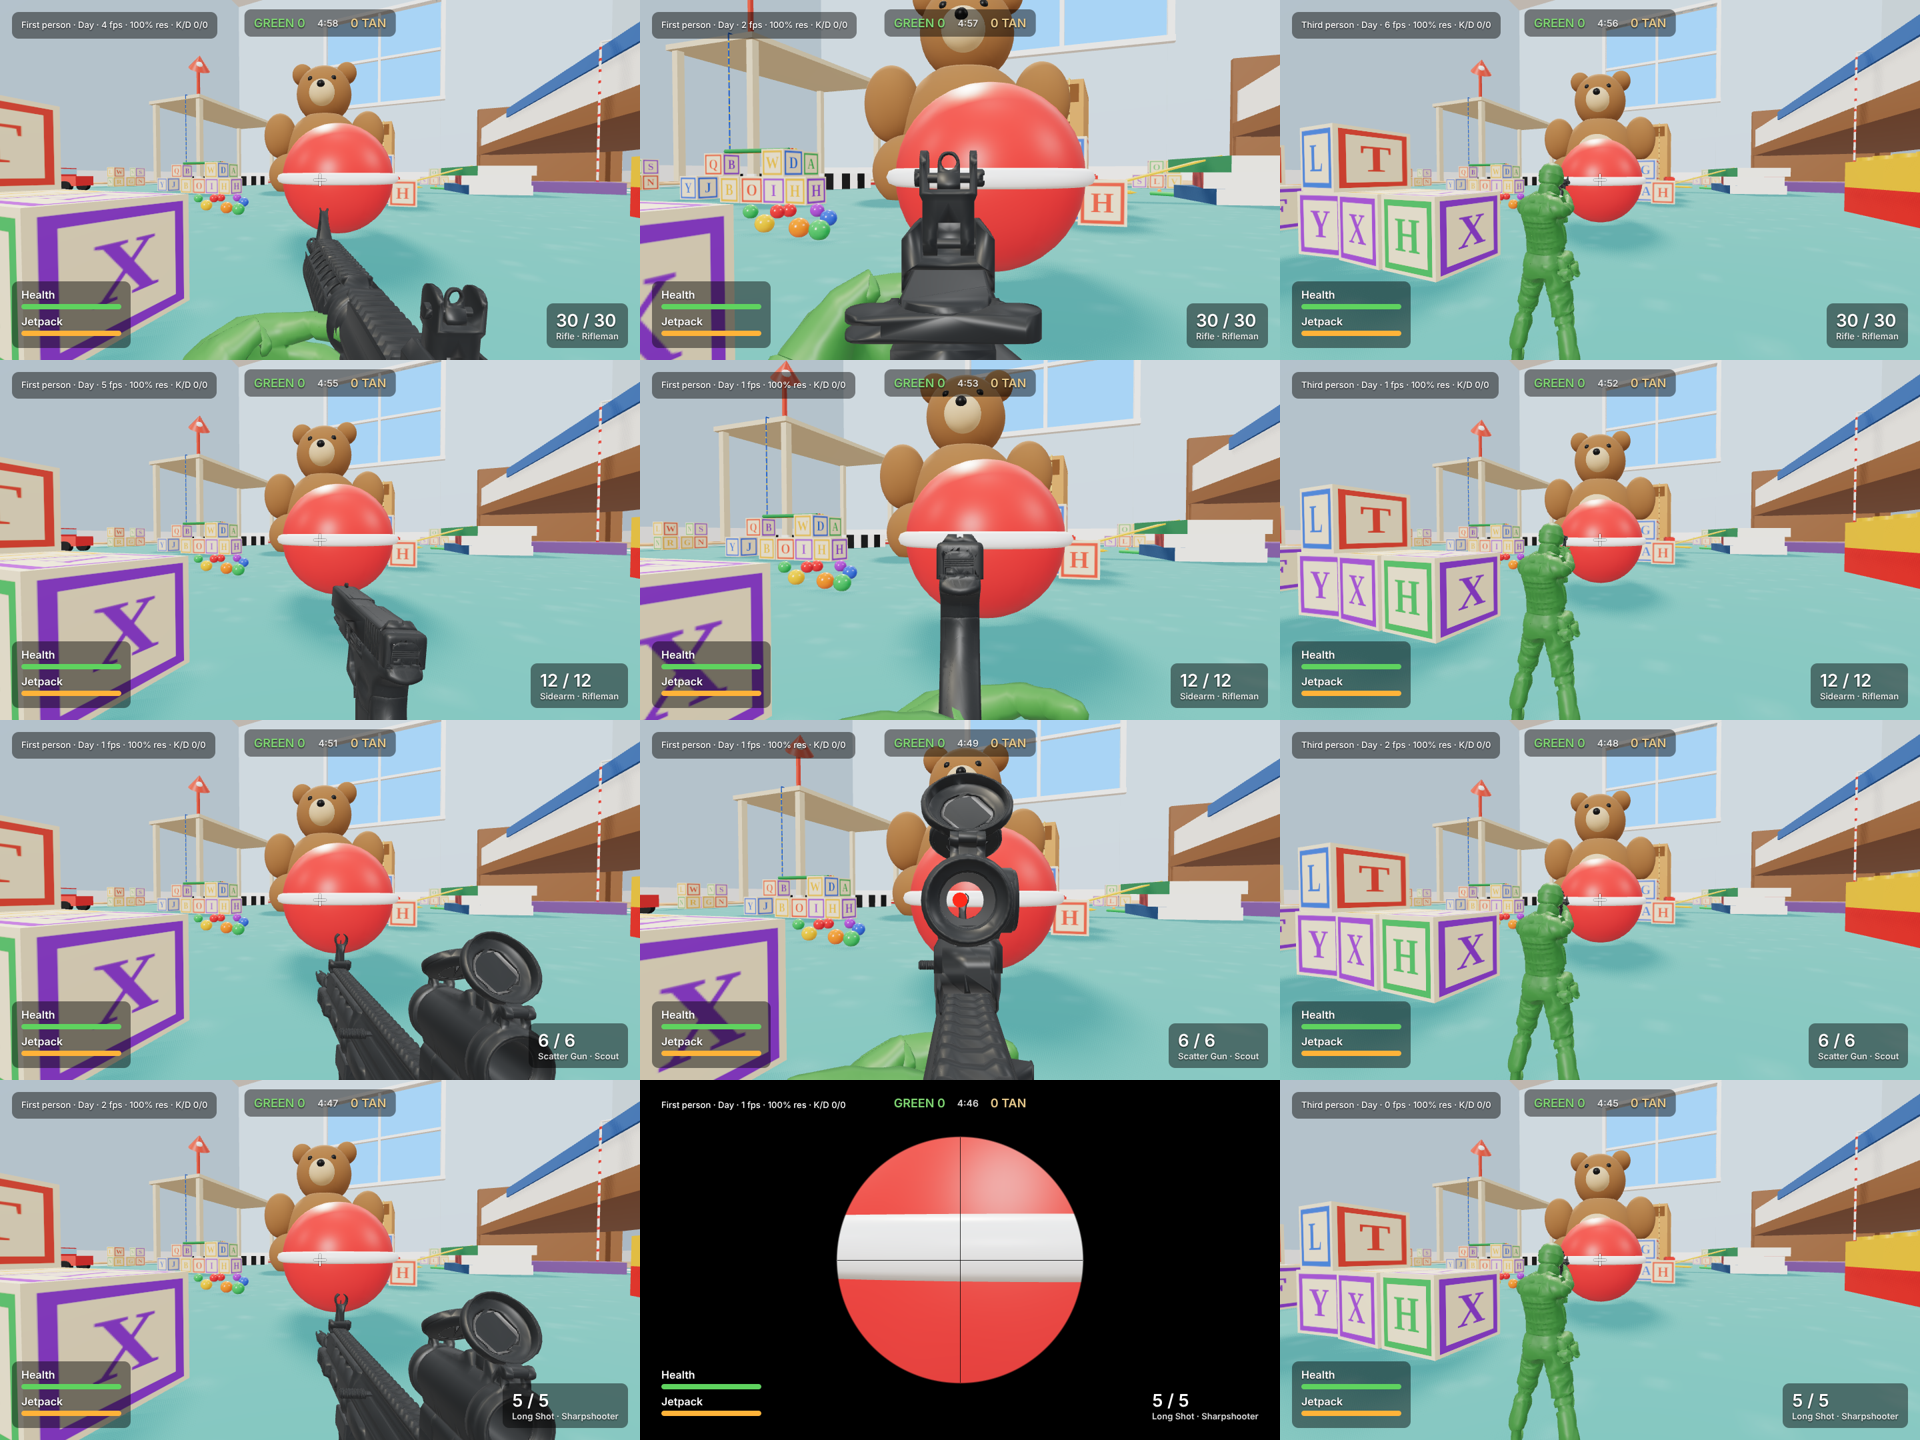
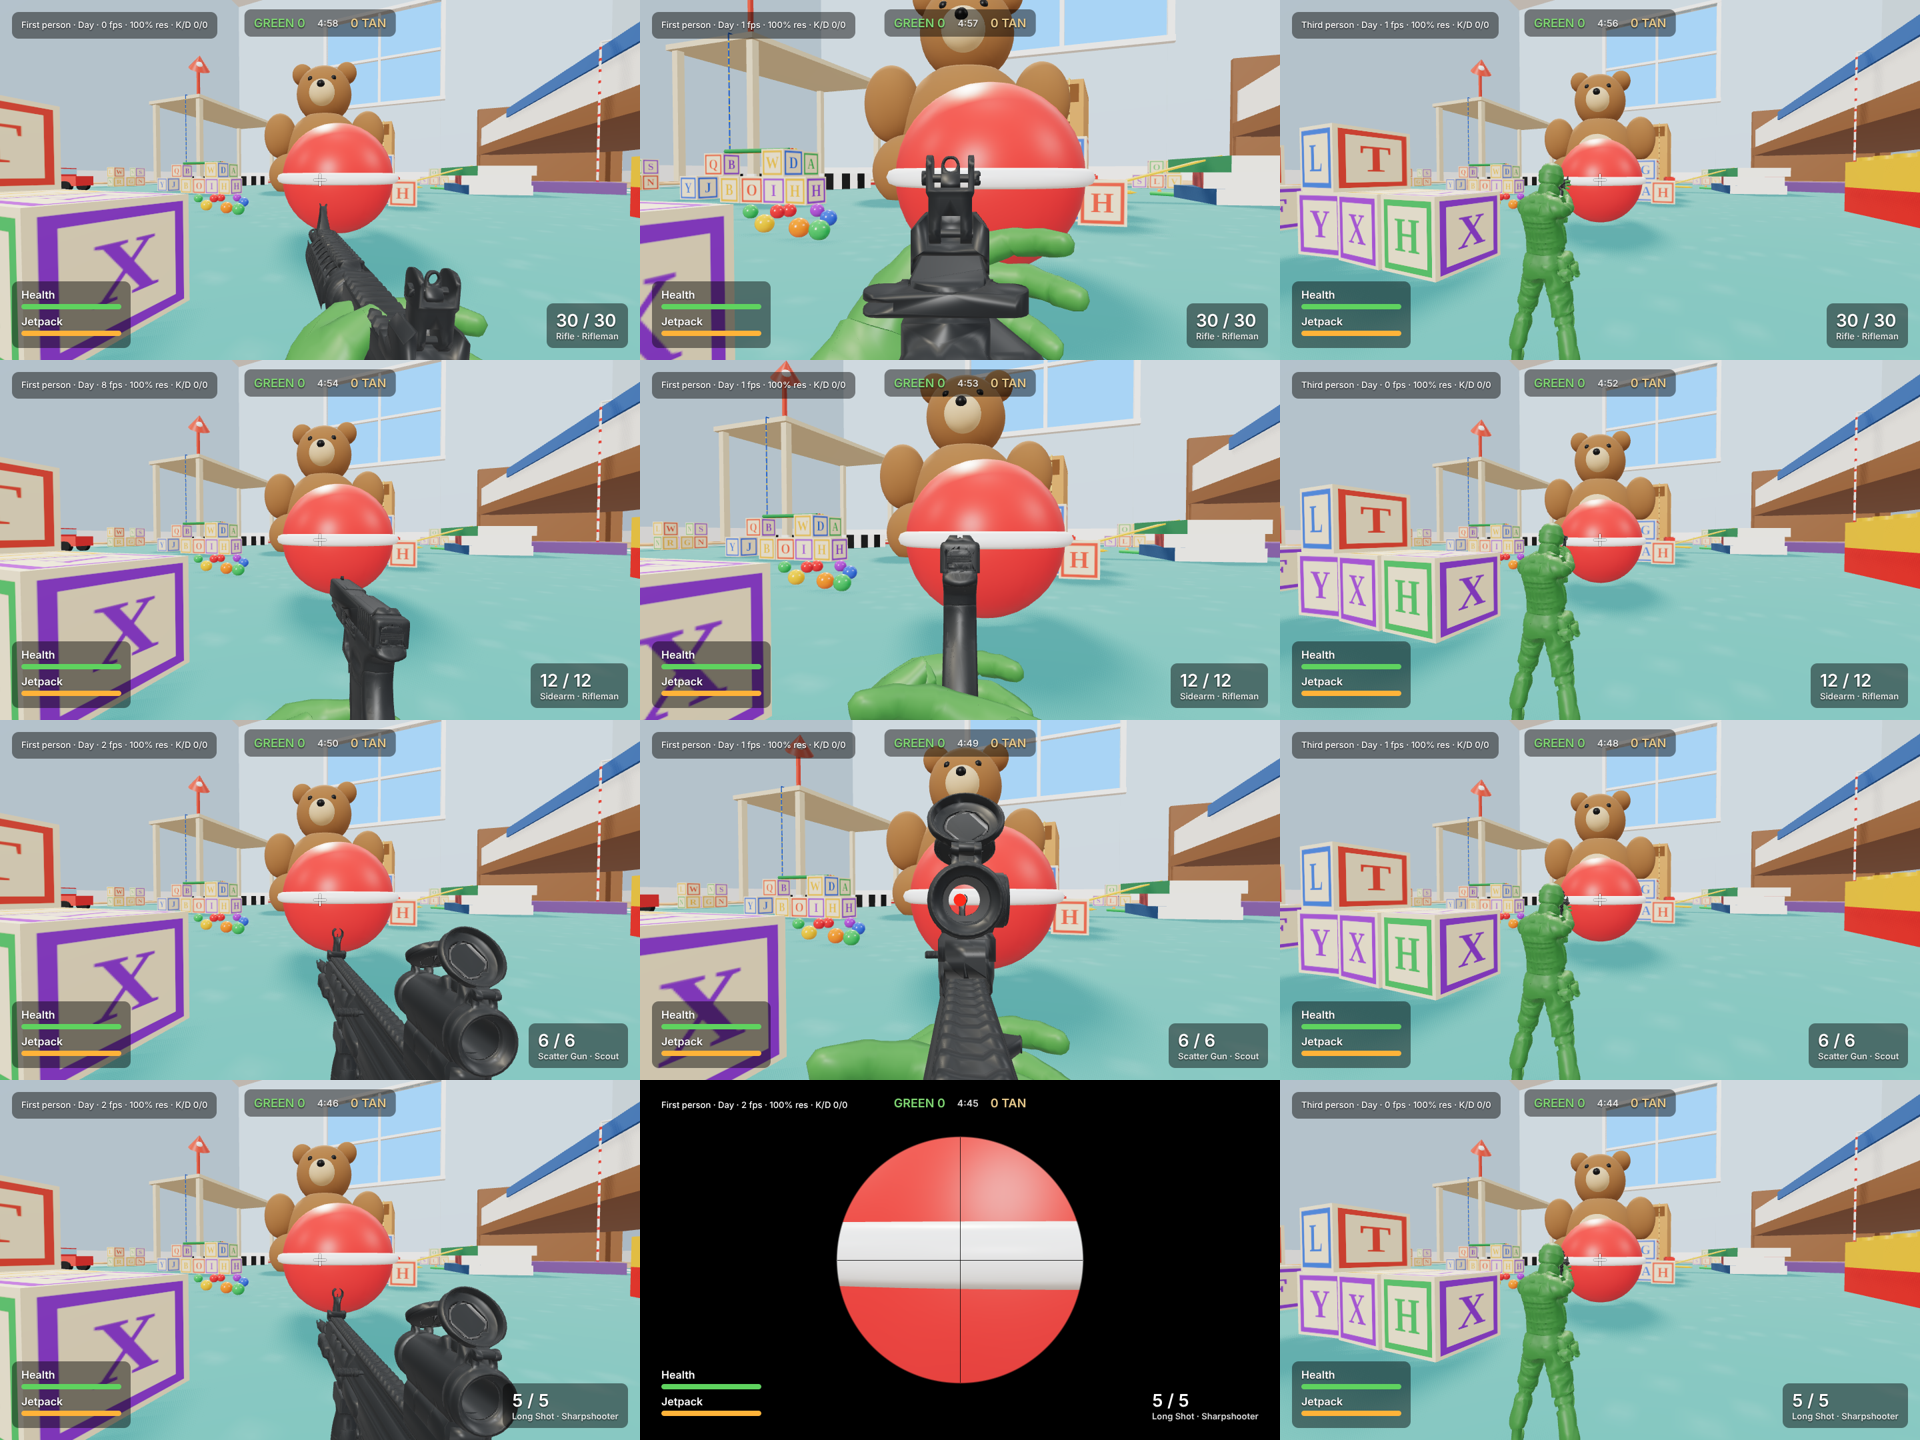
Toy Soldiers: keep both hands on the gun in first person
The soldier's arms are short, so with the gun held low and right the
left hand could not reach the fore grip and hung short of the gun, out
of view. The left hand now slides back along the gun to the furthest
point it can reach. The first-person view is slightly wider so both
hands stay in frame at the hip.

Claude-Session: https://claude.ai/code/session_0152o8Qf7nJissMg9Znhw23j

diff --git a/toy-soldiers/src/entities/RiggedSoldier.js b/toy-soldiers/src/entities/RiggedSoldier.js
@@ -407,16 +407,25 @@ export function animateSoldier(model, phase, amount, pace = 1, pose = {}) {
   for (const s of [1, -1]) {
     const arm = s < 0 ? B.armL : B.armR, fore = arm + 1, hand = arm + 2, fingers = arm + 3;
     place(model, arm);
-    const grip = _a.copy(s > 0 ? h.grip : h.fore).applyQuaternion(gunQ).add(gunP);
     // Each hand comes in from its own side with the palm against the grip:
     // `handDir` is wrist-to-knuckles, `palmDir` is the way the palm faces.
     const handDir = _b.copy(s > 0 ? _d.set(0.0, 0.3, -1) : _d.set(0.3, 0.35, -0.88)).normalize().applyQuaternion(gunQ);
     const palmDir = palmV.set(-s, 0, 0).applyQuaternion(gunQ);
     palmDir.addScaledVector(handDir, -palmDir.dot(handDir)).normalize();
     const palm = rest[hand].distanceTo(rest[fingers]);
-    const wrist = _c.copy(grip).addScaledVector(handDir, -palm * 0.75).addScaledVector(palmDir, -0.09);
-    // Two-bone reach from shoulder to wrist; the elbow goes down and out.
     const l1 = rest[arm].distanceTo(rest[fore]), l2 = rest[fore].distanceTo(rest[hand]);
+    const wrist = _c;
+    // The left hand holds the fore grip if it can reach it; otherwise it
+    // slides back along the gun to the furthest point it can reach, so the
+    // hand is always on the gun rather than hanging short of it.
+    for (let back = 0; ; back += 0.07) {
+      const grip = _a.copy(s > 0 ? h.grip : h.fore);
+      grip.z = Math.min(grip.z + back, s > 0 ? grip.z : h.grip.z - 0.3);
+      grip.applyQuaternion(gunQ).add(gunP);
+      wrist.copy(grip).addScaledVector(handDir, -palm * 0.75).addScaledVector(palmDir, -0.09);
+      if (s > 0 || back > 0.9 || wrist.distanceTo(wp[arm]) < (l1 + l2) * 0.97) break;
+    }
+    // Two-bone reach from shoulder to wrist; the elbow goes down and out.
     const to = _d.subVectors(wrist, wp[arm]);
     const dist = Math.min(to.length(), l1 + l2 - 0.01);
     to.normalize();

diff --git a/toy-soldiers/src/systems/Weapon.js b/toy-soldiers/src/systems/Weapon.js
@@ -3,7 +3,7 @@ import { CONFIG } from '../config.js';
 import { createSoldier, animateSoldier, setGun } from '../entities/RiggedSoldier.js';
 
 const SWAP_SECONDS = 0.35;
-const VIEW_FOV = 50;
+const VIEW_FOV = 58; // wide enough to keep both hands in view at the hip
 const _v = new THREE.Vector3();
 const _origin = new THREE.Vector3();
 const _from = new THREE.Vector3();
